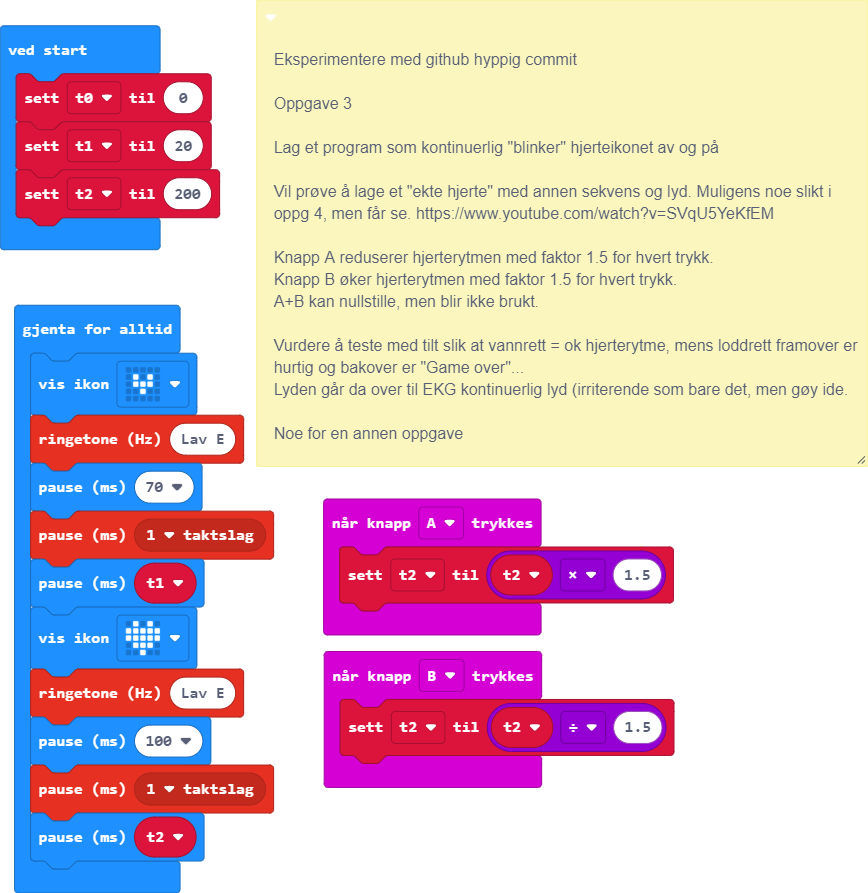
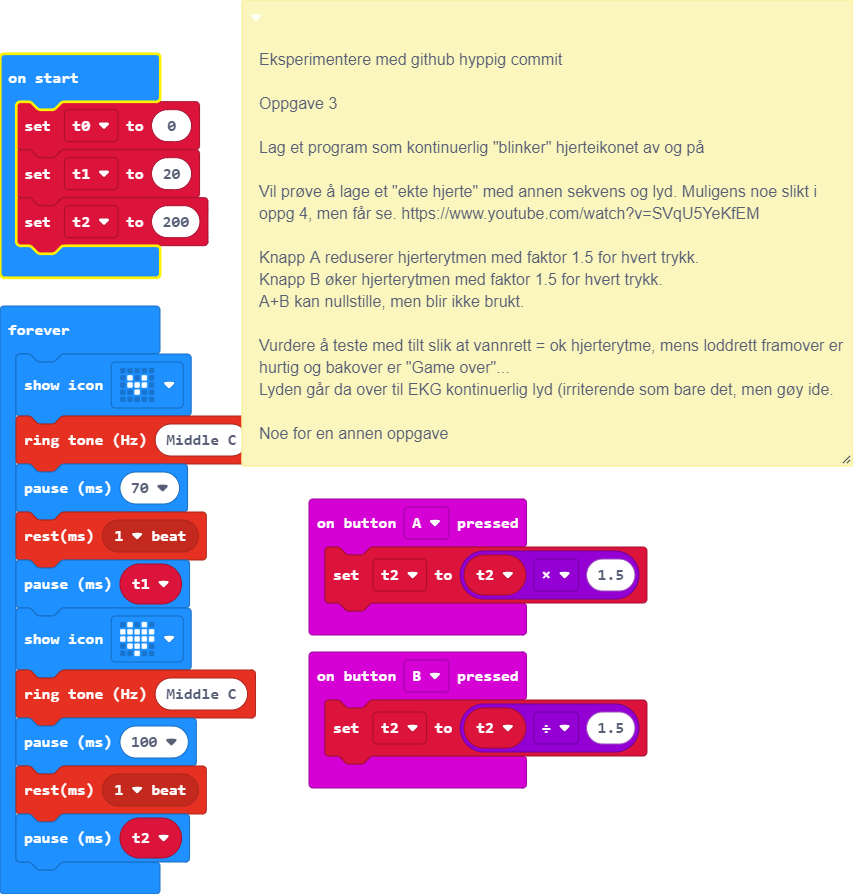
Levert

Changed region(s): [[0.0, 0.0, 0.9754, 1.0]]

diff --git a/main.ts b/main.ts
@@ -31,12 +31,12 @@ t2 = 200
  */
 basic.forever(function () {
     basic.showIcon(IconNames.SmallHeart)
-    music.ringTone(165)
+    music.ringTone(262)
     basic.pause(70)
     music.rest(music.beat(BeatFraction.Whole))
     basic.pause(t1)
     basic.showIcon(IconNames.Heart)
-    music.ringTone(165)
+    music.ringTone(262)
     basic.pause(100)
     music.rest(music.beat(BeatFraction.Whole))
     basic.pause(t2)
